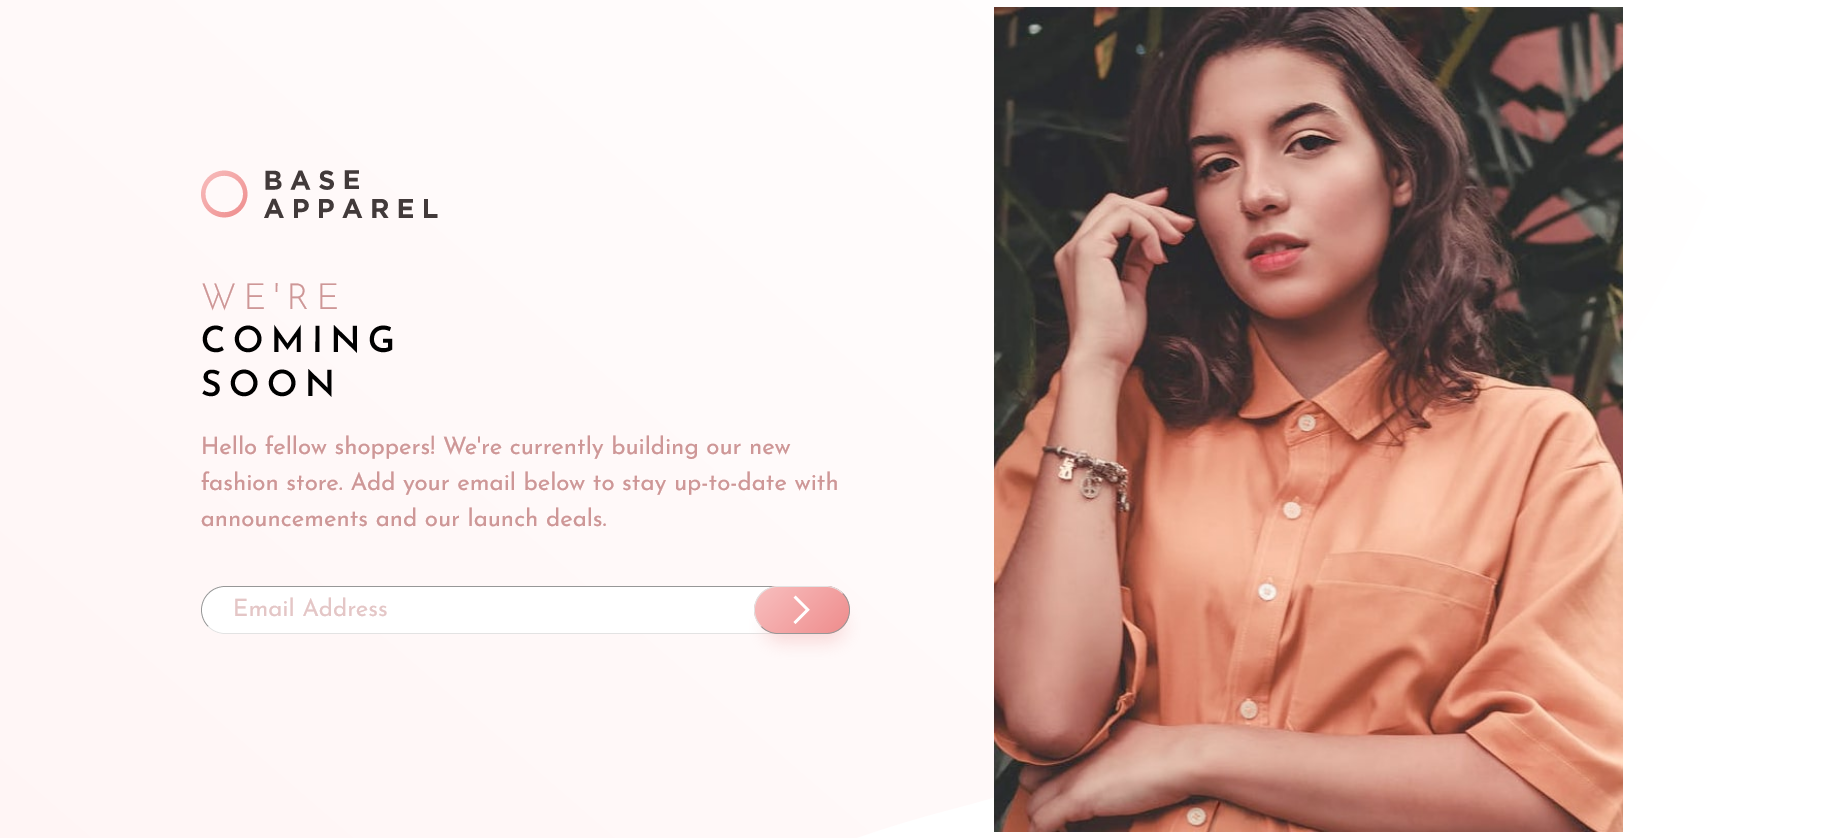
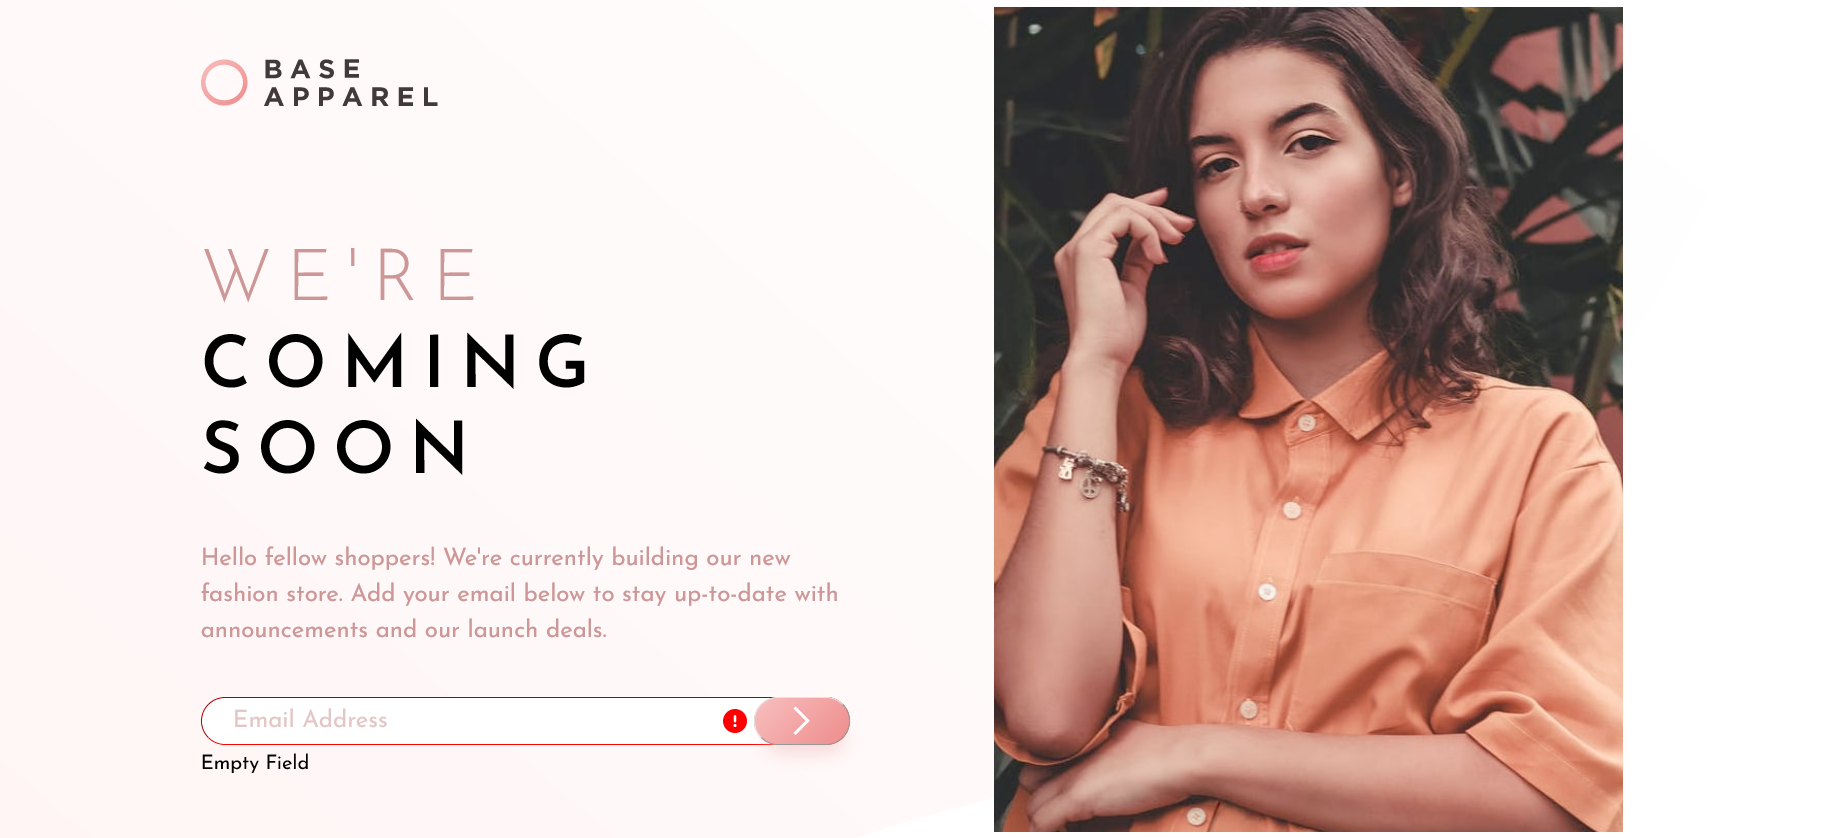
Screenshot

diff --git a/base-apparel-coming-soon-master/styles.css b/base-apparel-coming-soon-master/styles.css
@@ -250,6 +250,7 @@ button {
     }
 
     .container-article {
+        margin-top: 3em;
         margin-right: 6em;
         display: flex;
         flex-direction: column;
@@ -264,8 +265,4 @@ button {
     h1 {
         font-size: 48px;
     }
-
-
-
-
 }
